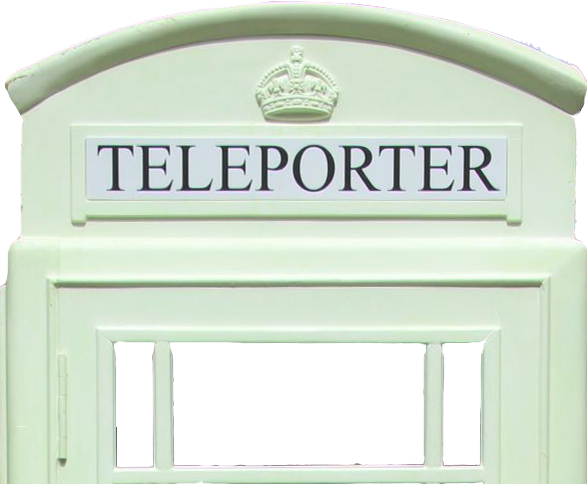
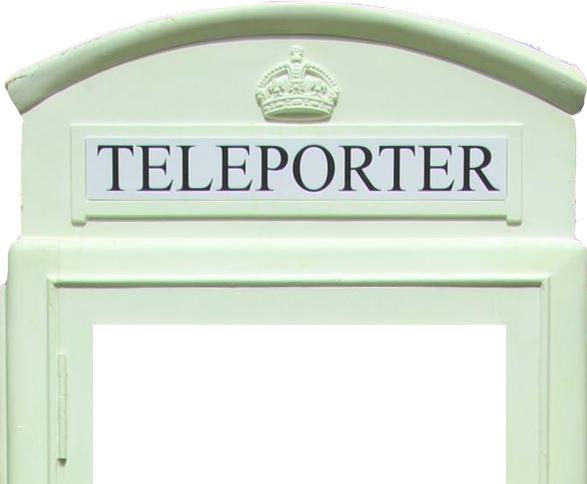
Center and scale the game

Changed region(s): [[0.1533, 0.6508, 0.8893, 1.0]]

diff --git a/sort-or-burn/js/game.js b/sort-or-burn/js/game.js
@@ -54,7 +54,7 @@ class MainScene extends Phaser.Scene {
 
     createBackground() {
         const s = this.add.sprite(0, 0, "background");
-        s.setAlpha(0.4).setScale(0.5).setOrigin(0);
+        s.setAlpha(0.4).setScale(1).setOrigin(0);
     }
 
     xPos(column) {
@@ -72,11 +72,32 @@ class MainScene extends Phaser.Scene {
 }
 
 window.onload = () => {
+    function resizeGame() {
+        const canvas = document.querySelector("canvas");
+        const windowWidth = window.innerWidth;
+        const windowHeight = window.innerHeight;
+        const windowRatio = windowWidth / windowHeight;
+        const gameRatio = game.config.width / game.config.height;
+        if (windowRatio < gameRatio) {
+            canvas.style.width = windowWidth + "px";
+            canvas.style.height = (windowWidth / gameRatio) + "px";
+        } else {
+            canvas.style.width = (windowHeight * gameRatio) + "px";
+            canvas.style.height = windowHeight + "px";
+        }
+    }
+
+    const backgroundHeight = 1500;
+    const wh = 9/16;
     game = new Phaser.Game({
         type: Phaser.AUTO,
-        width: 700,
-        height: 700,
+        width: backgroundHeight * wh,
+        height: backgroundHeight,
         backgroundColor: config.backgroundColor,
         scene: [MainScene]
     });
+    window.focus();
+    resizeGame();
+    window.addEventListener("resize", resizeGame);
 };
+

diff --git a/sort-or-burn/js/targets.js b/sort-or-burn/js/targets.js
@@ -13,13 +13,14 @@ export default class Targets {
         this.targetTexts = [];
         config.saveeeInfos.forEach((bookInfo, index) => {
             const xTarget = this.scene.xPos(index + 1);
-            const targetSprite = this.scene.add.sprite(xTarget, h * 0.86, 'target');
+            const targetSprite = this.scene.add.sprite(xTarget, 0, 'target');
             targetSprite.setScale(0.25);
+            targetSprite.setY(h - targetSprite.displayHeight / 2);
             const targetName = bookInfo[0];
             targetSprite.targetName = targetName;
             this.targetSprites.push(targetSprite);
-            this.targetTexts.push(this.scene.add.text(xTarget, h * 0.985, targetName,
-                {font: "16px sans-serif", color: "black"}).setOrigin(0.5));
+            this.targetTexts.push(this.scene.add.text(xTarget, h - 5, targetName,
+                {font: "16px sans-serif", color: "black"}).setOrigin(0.5, 1));
         });
         this.setNumTargets(this.scene.numTargets());
     }

diff --git a/sort-or-burn/index.html b/sort-or-burn/index.html
@@ -2,6 +2,22 @@
 <html>
 	<head>
         <title>Sort or Burn</title>
+        <meta name = "viewport" content = "width = device-width, initial-scale = 1.0, maximum-scale = 1.0, minimum-scale = 1.0, user-scalable = 0, minimal-ui" />
+        <style type = "text/css">
+            body{
+                background: #ecf0f1;
+                padding: 0;
+                margin: 0;
+            }
+            canvas{
+                display:block;
+                margin: 0;
+                position: absolute;
+                top: 50%;
+                left: 50%;
+                transform: translate(-50%, -50%);
+            }
+        </style>
         <script src="//cdn.jsdelivr.net/npm/phaser@3.11/dist/phaser.min.js"></script>
         <script type='module' src="js/game.js"></script>
     </head>
